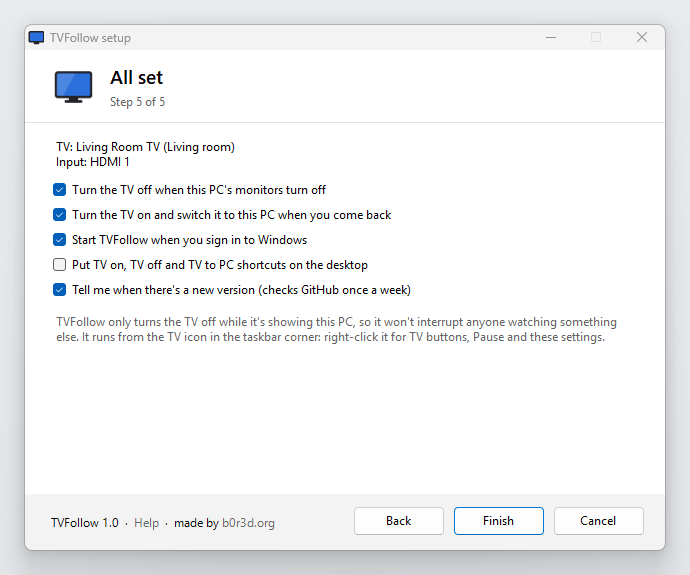
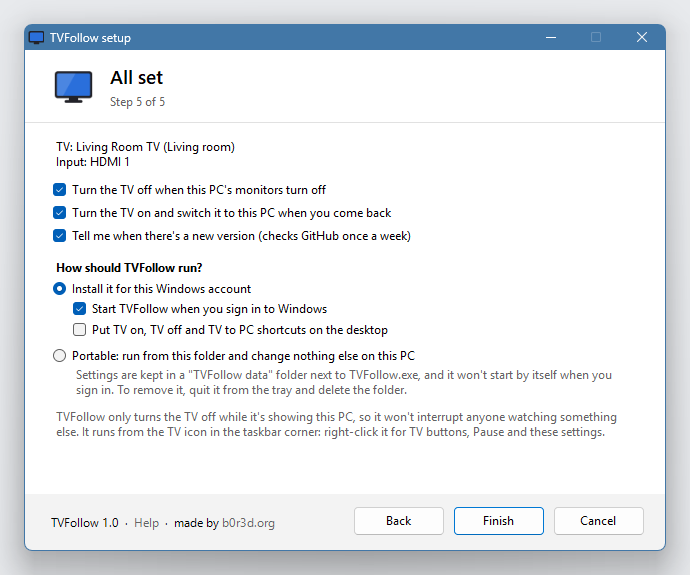
Docs: portable mode
README section on running it portable, HOW-IT-WORKS on where a portable copy keeps things, TROUBLESHOOTING on a greyed-out portable choice, CHANGELOG line, new finish-page screenshot.

Changed region(s): [[0.0609, 0.3548, 0.913, 0.7687], [0.0304, 0.0296, 0.9739, 0.0887]]

diff --git a/README.md b/README.md
@@ -36,6 +36,16 @@ the TV is one of your screens.
 
 TVFollow installs just for your Windows account and never asks for admin rights.
 
+### Or run it portable
+
+Rather not install anything? On setup's last page, choose **Portable: run from this
+folder and change nothing else on this PC**. Put TVFollow.exe in a folder of your own
+first (not straight out of a zip). TVFollow then keeps its settings and log in a
+`TVFollow data` folder next to the exe, and touches nothing else: no Start menu, no
+Apps list, no registry. It won't start by itself when you sign in, so open it when you
+want it. To remove it, right-click the tray icon → **Quit TVFollow** and delete the
+folder. To update it, replace TVFollow.exe in that folder.
+
 ## Setup, step by step
 
 **1. Find your TV.** TVFollow looks for TVs on your network and picks yours if there's
@@ -69,7 +79,7 @@ If the TV can't be reached while it's off, turn on **Fast TV start** on the TV
 switch their network off along with the screen.
 
 **5. All set.** Choose what TVFollow should do (including whether it tells you about new
-versions), then click **Finish**.
+versions) and whether to install it or run it portable, then click **Finish**.
 
 ![Step 5: the options](docs/images/5-finish.png)
 

diff --git a/docs/TROUBLESHOOTING.md b/docs/TROUBLESHOOTING.md
@@ -89,6 +89,14 @@ network (never on other networks a laptop joins), at most once every ten minutes
 you'd rather check it yourself, [build it from the source](../README.md#build-it-yourself).
 The SHA-256 checksum next to each release download is for checking that download.
 
+## The portable choice is greyed out
+
+The note under it says why. Portable needs a folder of your own that TVFollow can write
+to. It isn't offered when TVFollow runs from its install folder (that's the installed
+copy), or from a temporary folder, which is where Windows puts an exe opened straight from
+a zip: unzip it first. It also isn't offered in a folder TVFollow can't write to, such as
+Program Files.
+
 ## Two PCs, one TV
 
 Both can run TVFollow. Each one only turns the TV off while it's showing *that* PC's

diff --git a/CHANGELOG.md b/CHANGELOG.md
@@ -17,6 +17,8 @@ The first public release.
   on.
 - Installs per user without admin. Start menu entry, optional start with Windows,
   optional TV on / off / to PC desktop shortcuts, and uninstall from Settings → Apps.
+- Or runs portable: settings in a `TVFollow data` folder next to the exe, nothing else on
+  the PC touched.
 - A tray icon with TV buttons, Pause following (remembered across restarts), Settings,
   the log and Quit.
 - Opening a newer TVFollow.exe shows setup, and finishing installs it over the old one.

diff --git a/docs/HOW-IT-WORKS.md b/docs/HOW-IT-WORKS.md
@@ -115,3 +115,9 @@ check_updates=yes
 
 Everything is per user, so TVFollow never needs admin rights. Uninstalling removes all
 of it.
+
+**Portable copies** keep `settings.ini`, the log and `updates.ini` in a `TVFollow data`
+folder next to TVFollow.exe, and write nothing anywhere else: no registry, no Start menu,
+no Apps entry. That folder is how TVFollow knows it's portable. Installed or portable,
+only one TVFollow follows the monitors at a time: a second one started alongside steps
+back.
